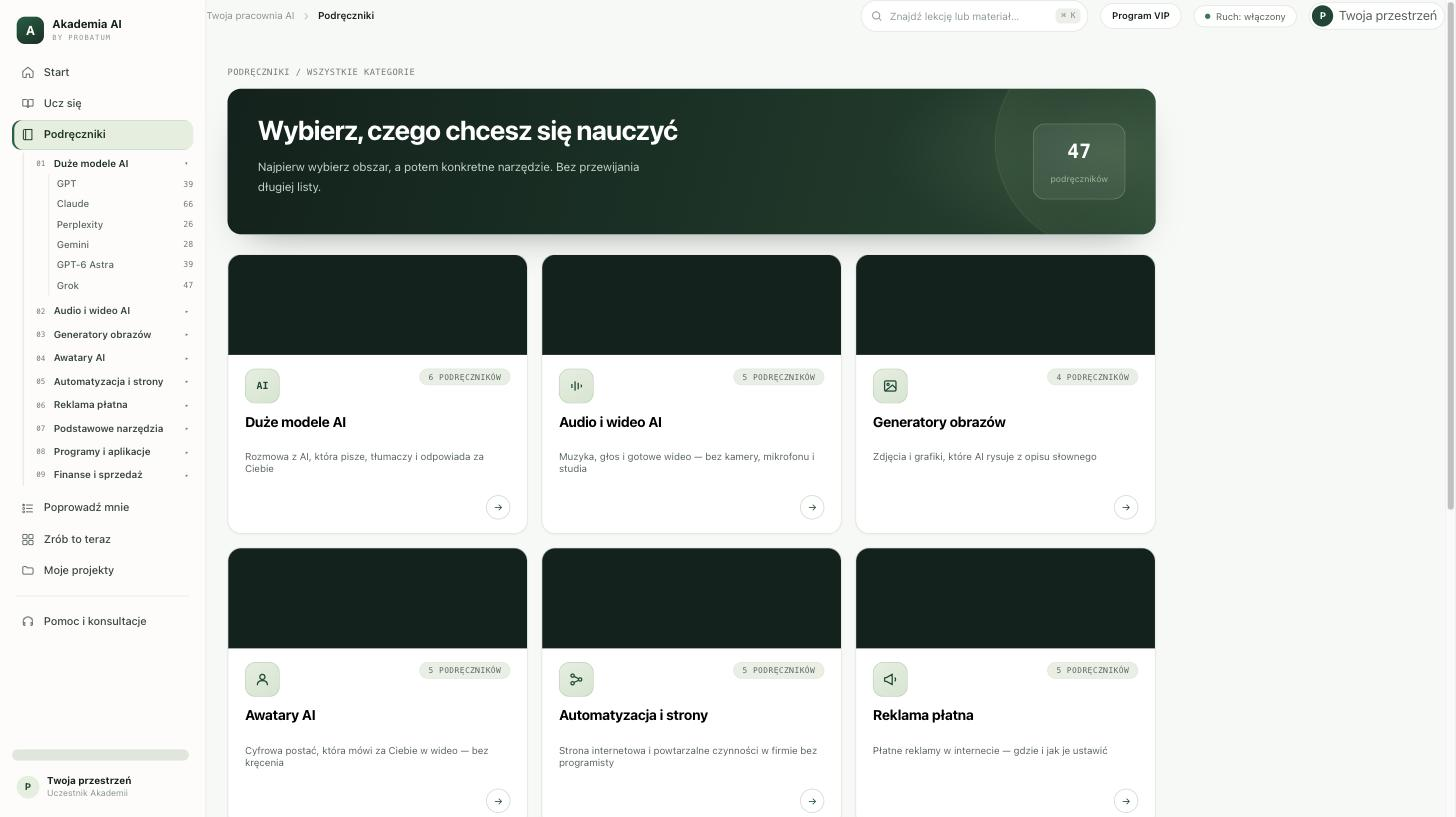
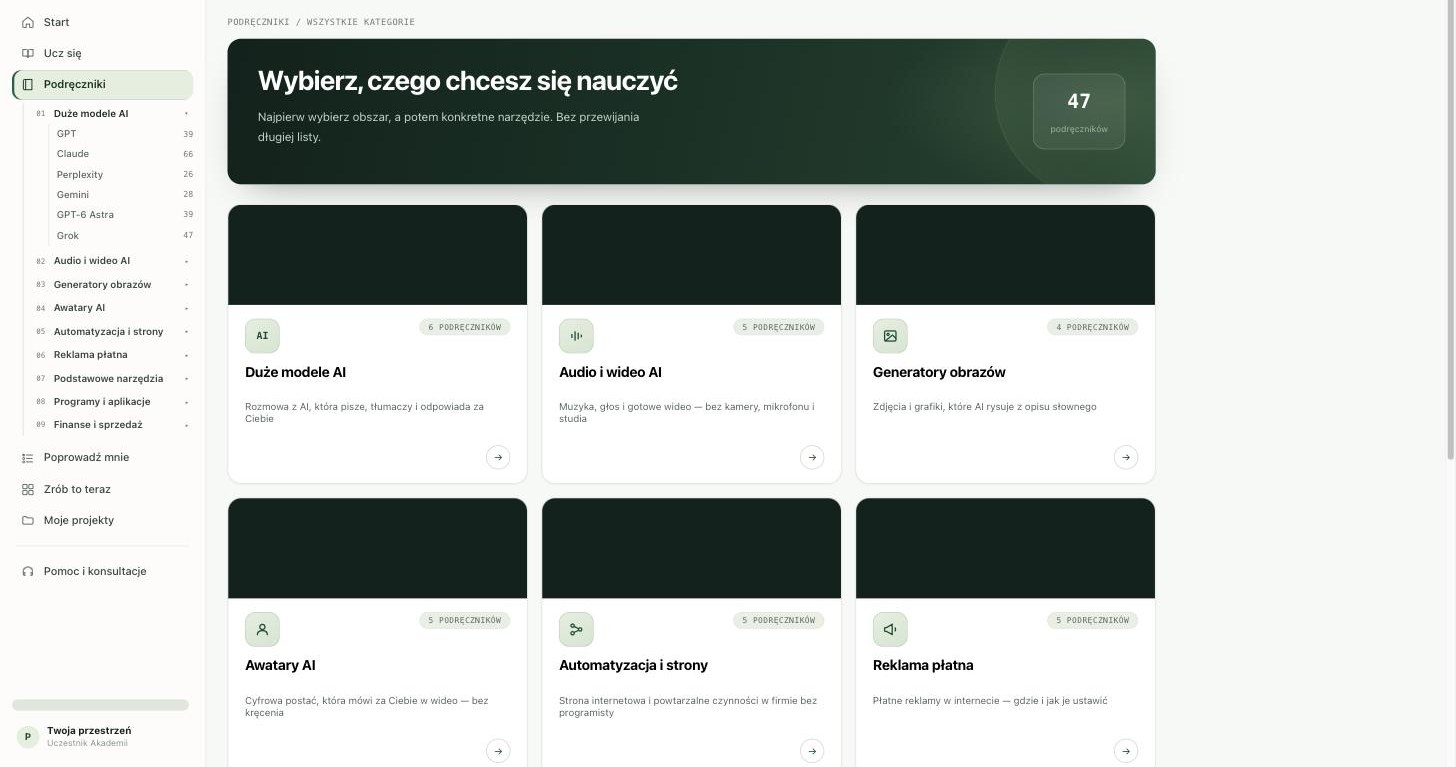
Domknij e-book: SEO/social meta + zrzuty bez plakietki VIP
- dodane canonical, og:*, twitter:card (obraz: zrzut-start.jpg,
  najlepszy istniejący asset pasujący tematycznie do e-booka)
- przycięty górny pasek na 6 zrzutach z Akademii, żeby usunąć
  plakietkę "Program VIP" widoczną tylko z konta wewnętrznego
  (/?free=1 nie nadpisuje istniejącego ciasteczka płatnego w tej
  samej przeglądarce - zamierzone zachowanie bramki, nie błąd,
  więc prostsze i uczciwsze było przycięcie kadru niż podmiana
  sesji)
- QA: struktura HTML zwalidowana (html.parser, 0 błędów), konsola
  czysta, wszystkie 26 kotwic/18 promptów/6 obrazów działają

diff --git a/darmowy-poradnik-chatgpt.html b/darmowy-poradnik-chatgpt.html
@@ -6,6 +6,20 @@
 <title>ChatGPT w praktyce — darmowy poradnik Akademii AI Probatum</title>
 <meta name="description" content="Od pytania do gotowej pracy: 26 rozdziałów, 50+ przykładów i promptów do skopiowania, w tym prompty do codziennego życia. Darmowy poradnik Akademii AI Probatum.">
 <meta name="robots" content="index,follow">
+<link rel="canonical" href="https://probatum.pl/darmowy-poradnik-chatgpt.html">
+<meta property="og:type" content="website">
+<meta property="og:site_name" content="Probatum">
+<meta property="og:locale" content="pl_PL">
+<meta property="og:title" content="ChatGPT w praktyce — darmowy poradnik Akademii AI Probatum">
+<meta property="og:description" content="Od pytania do gotowej pracy: 26 rozdziałów, 50+ przykładów i promptów do skopiowania, w tym prompty do codziennego życia.">
+<meta property="og:url" content="https://probatum.pl/darmowy-poradnik-chatgpt.html">
+<meta property="og:image" content="https://probatum.pl/assets/ebook-gpt/zrzut-start.jpg">
+<meta property="og:image:width" content="1456">
+<meta property="og:image:height" content="767">
+<meta name="twitter:card" content="summary_large_image">
+<meta name="twitter:title" content="ChatGPT w praktyce — darmowy poradnik Akademii AI Probatum">
+<meta name="twitter:description" content="Od pytania do gotowej pracy: 26 rozdziałów, 50+ przykładów i promptów do skopiowania, w tym prompty do codziennego życia.">
+<meta name="twitter:image" content="https://probatum.pl/assets/ebook-gpt/zrzut-start.jpg">
 <link rel="icon" href="/assets/favicon.svg" type="image/svg+xml">
 <style>
 :root{
